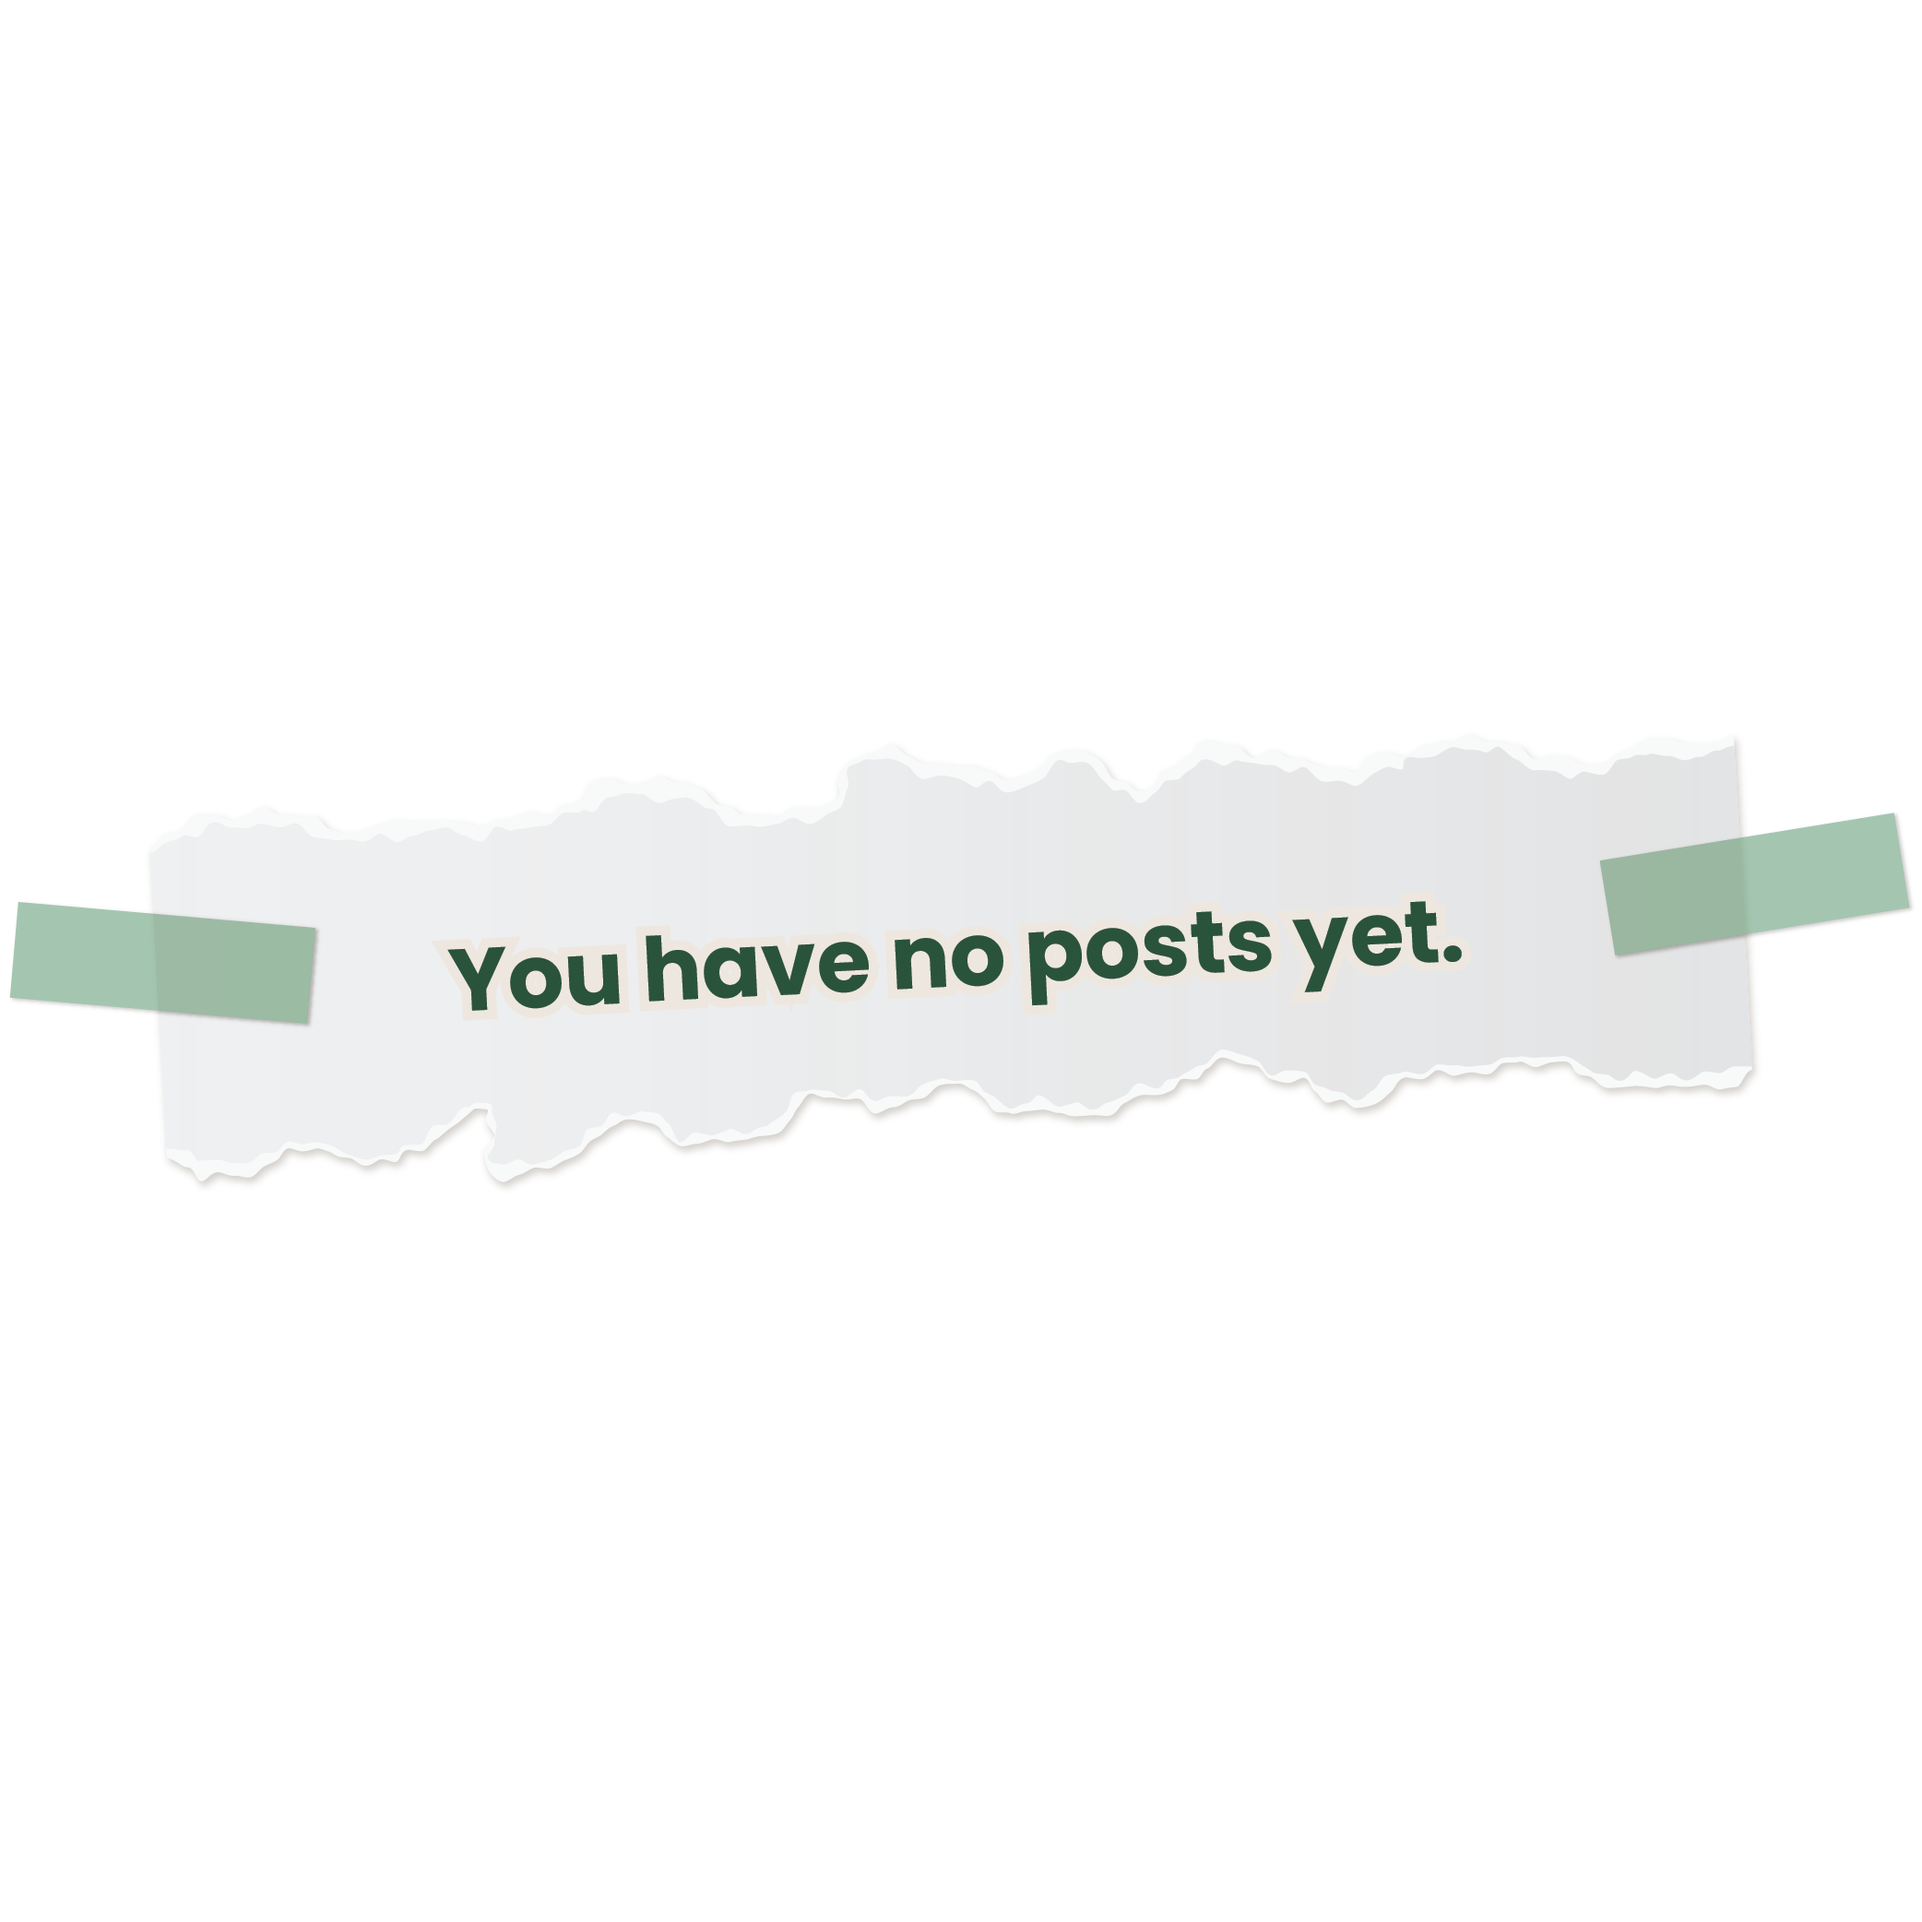
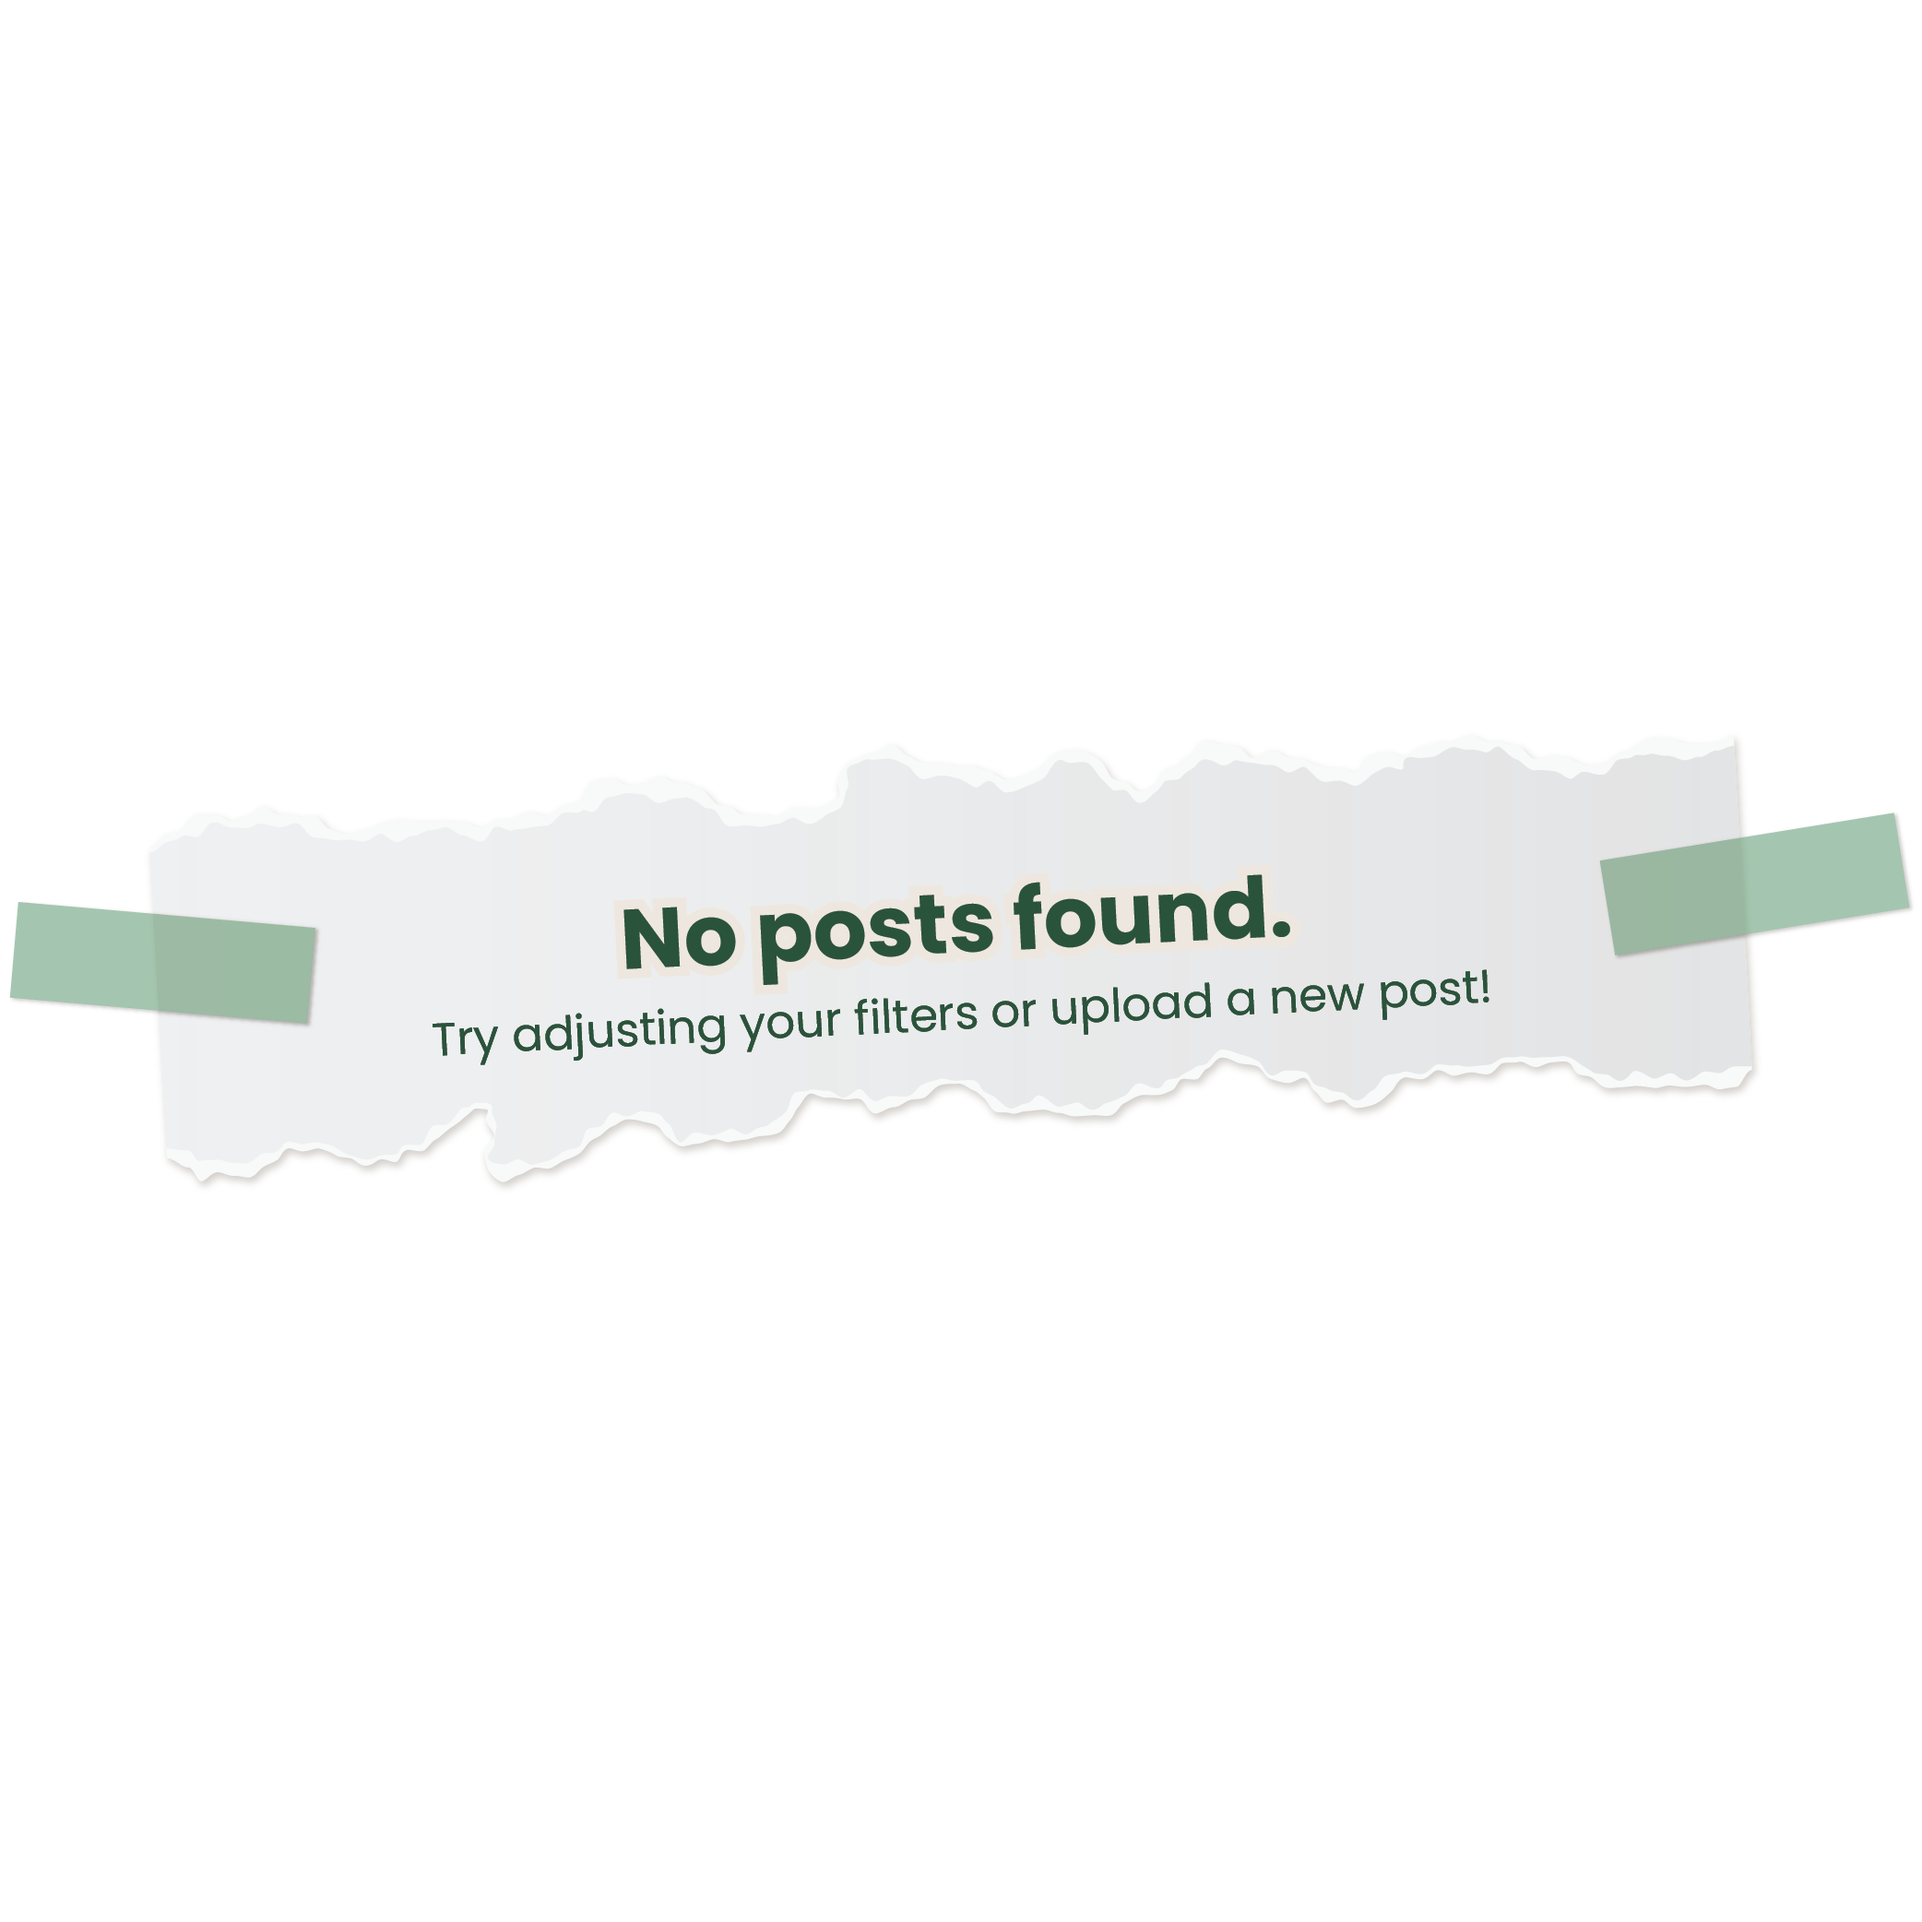
upload posts filter

Changed region(s): [[0.2183, 0.4367, 0.7798, 0.5614]]

diff --git a/src/app/main/components/uploads/postslist/postslist.component.html b/src/app/main/components/uploads/postslist/postslist.component.html
@@ -8,24 +8,25 @@
 
   <div class="filters">
     <div class="selects">
-      <select id="filter-category">
+      <select id="filter-category" [(ngModel)]="selectedCategory" (change)="filterPosts($event)">
+        <option value="">All Category</option>
         <option value="Compost">Compost</option>
-          <option value="Plastic">Plastic</option>
-          <option value="Rubber">Rubber</option>
-          <option value="Wood and Paper">Wood and Paper</option>
-          <option value="Glass">Glass</option>
-          <option value="Boxes">Boxes</option>
-          <option value="Mixed Waste">Mixed Waste</option>
-          <option value="Cloth">Cloth</option>
-          <option value="Issues">Issues</option>
-          <option value="Miscellaneous Products">Miscellaneous Products</option>
-          <option value="Tips & tricks">Tips & tricks</option>
+        <option value="Plastic">Plastic</option>
+        <option value="Rubber">Rubber</option>
+        <option value="Wood and Paper">Wood and Paper</option>
+        <option value="Glass">Glass</option>
+        <option value="Boxes">Boxes</option>
+        <option value="Mixed Waste">Mixed Waste</option>
+        <option value="Cloth">Cloth</option>
+        <option value="Issues">Issues</option>
+        <option value="Miscellaneous Products">Miscellaneous Products</option>
+        <option value="Tips & tricks">Tips & tricks</option>
       </select>
-      <select id="filter-status">
+      <select id="filter-status" (change)="filterStatus($event)">
         <option selected value=""> All Status </option>
-        <option value="Pending"> Pending </option>
-        <option value="Approved"> Approved </option>
-        <option value="Declined"> Declined </option>
+        <option value="pending"> Pending </option>
+        <option value="approved"> Approved </option>
+        <option value="declined"> Declined </option>
       </select>
     </div>
 
@@ -33,14 +34,21 @@
       <div class="date-filter">
           <div class="txt_field">
               <label for="datepicker"> From: </label>
-              <input type="date" id="datepicker-start" autocomplete="off" >
+              <input type="date" id="datepicker-start" autocomplete="off" (change)="onDateChange($event, 'from')">
           </div>
           <div class="txt_field">
               <label for="datepicker"> To: </label>
-              <input type="date" id="datepicker-end" autocomplete="off" >
+              <input type="date" id="datepicker-end" autocomplete="off" (change)="onDateChange($event, 'to')">
           </div>
       </div>
     </form>
+  </div>
+
+  <!-- No posts available message -->
+  <div *ngIf="!isLoading && filteredPosts.length === 0" class="no-sign">
+    <div class="no-clipart">
+      <img src="../../../../assets/images/NoPosts2.png">
+    </div>
   </div>
 
   <div class="post-container">
@@ -61,7 +69,7 @@
 
     <!-- Dynamically render posts once loaded -->
     <ng-container *ngIf="!isLoading">
-      <mat-card *ngFor="let element of dataSource" class="post-box">
+      <mat-card *ngFor="let element of filteredPosts" class="post-box">
         <div mat-card-header class="post-img">
           <img [src]="element.image" (error)="onImageError($event)" alt="uploaded image" (click)="viewPost(element.id)">
           <span class="status" [ngClass]="{

diff --git a/src/app/main/components/uploads/postslist/postslist.component.ts b/src/app/main/components/uploads/postslist/postslist.component.ts
@@ -22,6 +22,12 @@ export class PostslistComponent implements OnInit {
   isLoading = true;
   loaders = Array(5).fill(null);
 
+  filteredPosts: any[] = [];
+  selectedCategory: string = '';
+  selectedStatus: string = '';
+  fromDate: string = '';  // For the "from" date
+  toDate: string = '';    // For the "to" date
+
   constructor (
     private ds: DataserviceService,
     private cdr: ChangeDetectorRef,
@@ -31,6 +37,67 @@ export class PostslistComponent implements OnInit {
 
   ngOnInit(): void {
     this.fetchUserPost();
+  }
+
+  setDefaultFilter(): void {
+    this.filteredPosts = [...this.dataSource];
+  }
+  
+  filterPosts(event: Event): void {
+    const selectElement = event.target as HTMLSelectElement;
+    if (selectElement) {
+      this.selectedCategory = selectElement.value;
+      this.applyFilters();  // Reapply filters whenever category is changed
+    }
+  }
+
+  filterStatus(event: Event): void {
+    const selectElement = event.target as HTMLSelectElement;
+    if (selectElement) {
+      this.selectedStatus = selectElement.value;
+      this.applyFilters();  // Reapply filters whenever status is changed
+    }
+  }
+
+  onDateChange(event: Event, type: 'from' | 'to'): void {
+    const inputElement = event.target as HTMLInputElement;
+    const selectedDate = inputElement.value;
+
+    if (type === 'from') {
+      this.fromDate = selectedDate;
+    } else if (type === 'to') {
+      this.toDate = selectedDate;
+    }
+
+    this.applyFilters();  // Reapply filters whenever dates are changed
+  }
+
+  applyFilters(): void {
+    let filteredPosts = this.dataSource;
+
+    // Filter by category
+    if (this.selectedCategory) {
+      filteredPosts = filteredPosts.filter(post => post.category === this.selectedCategory);
+    }
+
+    // Filter by status (applied on already filtered posts)
+    if (this.selectedStatus) {
+      filteredPosts = filteredPosts.filter(post => post.status === this.selectedStatus);
+    }
+
+    // Filter by date range (applied on already filtered posts)
+    if (this.fromDate) {
+      const fromDate = new Date(this.fromDate);
+      filteredPosts = filteredPosts.filter(post => new Date(post.date) >= fromDate);
+    }
+
+    if (this.toDate) {
+      const toDate = new Date(this.toDate);
+      filteredPosts = filteredPosts.filter(post => new Date(post.date) <= toDate);
+    }
+
+    // Update filtered posts
+    this.filteredPosts = filteredPosts;
   }
 
   // UPLOADING POPUP
@@ -86,6 +153,7 @@ export class PostslistComponent implements OnInit {
         });
         console.log(response)
         this.isLoading = false;
+        this.applyFilters();
         this.cdr.detectChanges();
       },
       (error) => {

diff --git a/src/app/main/components/homepage/homepage.component.html b/src/app/main/components/homepage/homepage.component.html
@@ -16,6 +16,7 @@
       <div class="filters">
         <div class="selects">
           <select id="filter-category" (change)="filterPosts($event)">
+            <option value="">All Category</option>
             <option value="Compost">Compost</option>
             <option value="Plastic">Plastic</option>
             <option value="Rubber">Rubber</option>

diff --git a/src/app/main/components/uploads/postslist/postslist.component.scss b/src/app/main/components/uploads/postslist/postslist.component.scss
@@ -18,6 +18,10 @@
     }
 }
 
+.no-data {
+    width: 100%;
+}
+
 /* USER POST CONTAINER */
 .post-container {
     display: grid;
